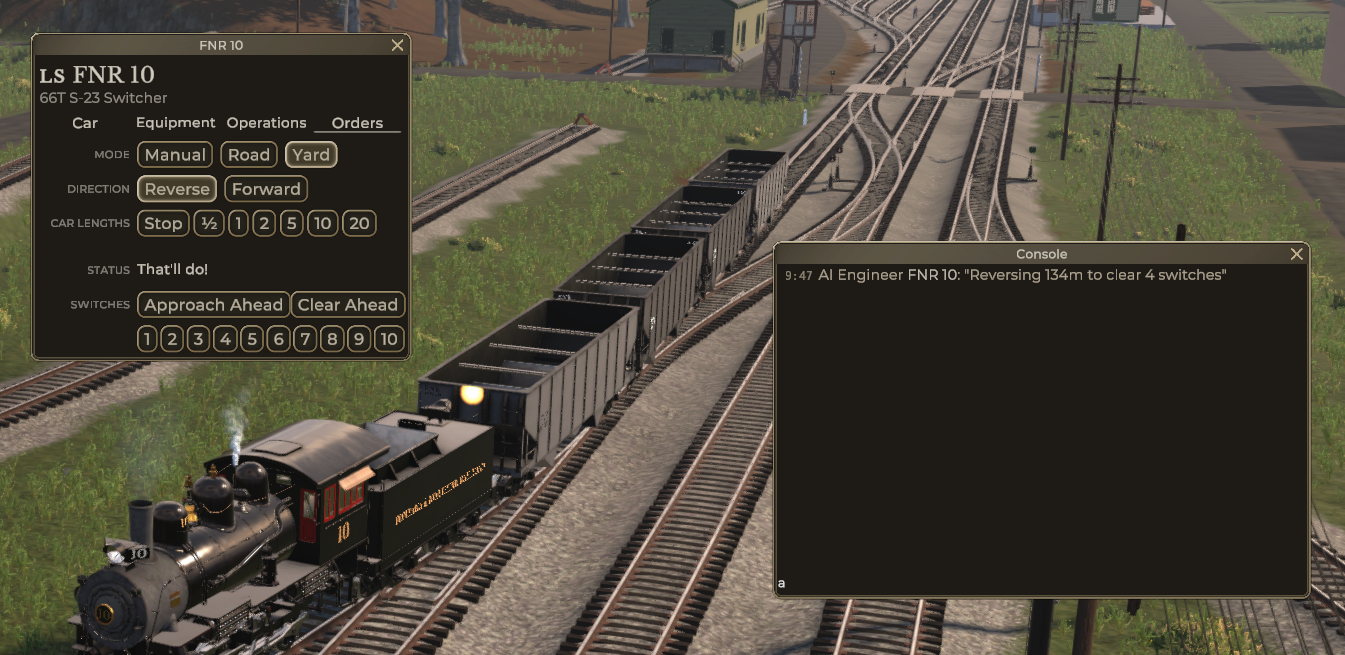
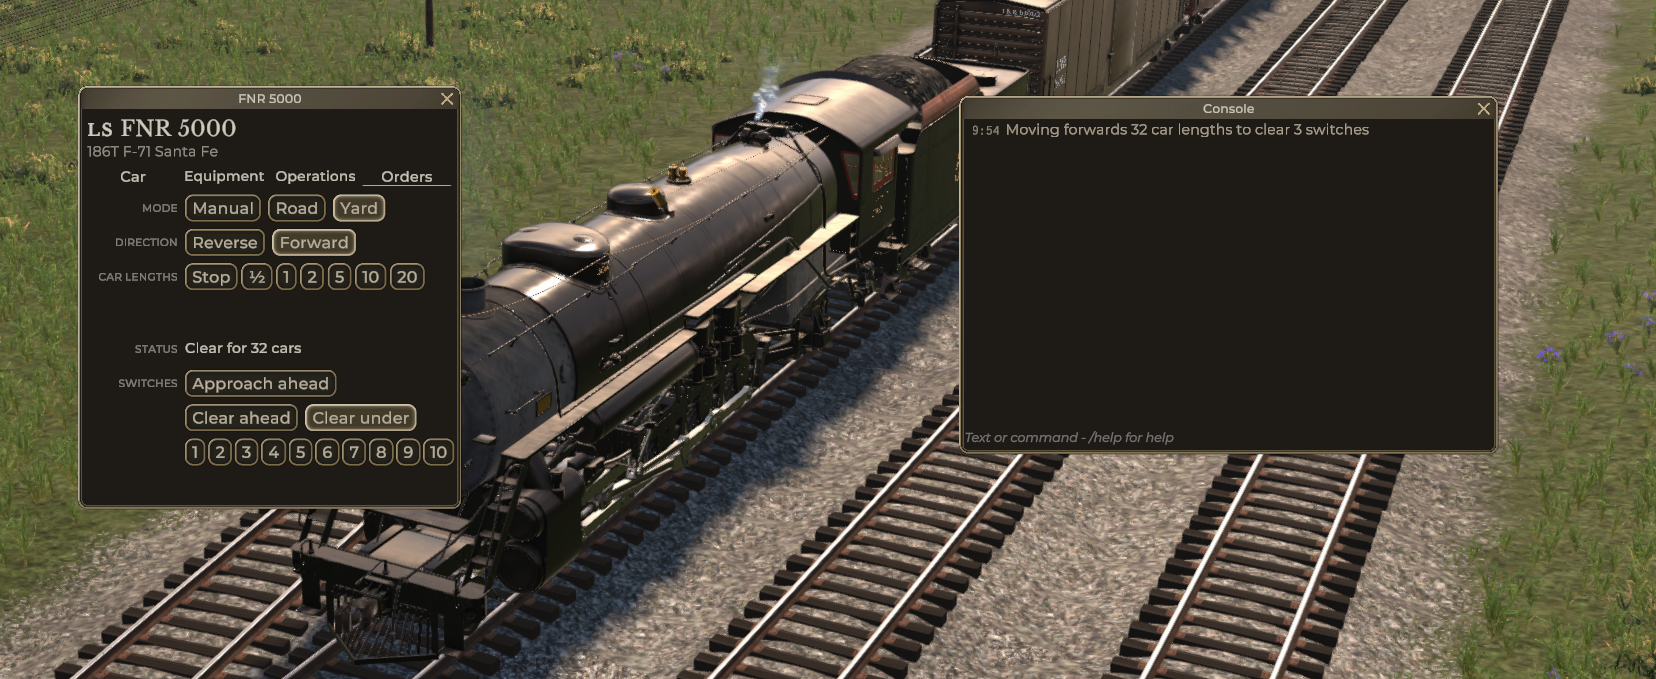
Update UI with for more flexibility

diff --git a/SmartOrders/HarmonyPatches/CarInspectorPatches.cs b/SmartOrders/HarmonyPatches/CarInspectorPatches.cs
@@ -1,6 +1,8 @@
 namespace SmartOrders.HarmonyPatches;
 
+using System;
 using System.Diagnostics.CodeAnalysis;
+using System.Drawing;
 using System.Linq;
 using Game.Messages;
 using HarmonyLib;
@@ -12,79 +14,120 @@ using UI.Builder;
 using UI.CarInspector;
 using UI.Common;
 using UI.EngineControls;
+using UnityEngine;
 
 [PublicAPI]
 [HarmonyPatch]
 [SuppressMessage("ReSharper", "InconsistentNaming")]
-public static class CarInspectorPatches {
+public static class CarInspectorPatches
+{
 
-    [HarmonyPostfix]
-    [HarmonyPatch(typeof(CarInspector), "PopulatePanel")]
-    public static void PopulatePanel(UIPanelBuilder builder, Car? ____car, Window ____window) {
-        if (!SmartOrdersPlugin.Shared.IsEnabled) {
-            return;
-        }
-
-        SmartOrdersUtility.UpdateWindowHeight(____car, ____window);
-    }
+    private static Vector2? originalWindowSize;
 
     [HarmonyPostfix]
     [HarmonyPatch(typeof(CarInspector), "BuildContextualOrders")]
-    public static void BuildContextualOrders(UIPanelBuilder builder, AutoEngineerPersistence persistence, Car ____car) {
-        if (!SmartOrdersPlugin.Shared.IsEnabled) {
+    public static void BuildContextualOrders(UIPanelBuilder builder, AutoEngineerPersistence persistence, Car ____car, Window ____window)
+    {
+        if (!SmartOrdersPlugin.Shared.IsEnabled)
+        {
             return;
         }
-
         var locomotive = (BaseLocomotive)____car;
         var helper = new AutoEngineerOrdersHelper(locomotive, persistence);
         var mode2 = helper.Mode();
 
-        if (mode2 != AutoEngineerMode.Yard) {
+        if (mode2 != AutoEngineerMode.Yard)
+        {
             return;
         }
 
-        builder.AddField("Switches",
+        if (originalWindowSize == null)
+        {
+            originalWindowSize = ____window.GetContentSize();
+        }
+
+        ____window.SetContentSize(new Vector2(originalWindowSize.Value.x, originalWindowSize.Value.y + 30));
+
+        Func<BaseLocomotive, string> getClearSwitchMode = (BaseLocomotive loco) =>
+        {
+            string defaultMode = "CLEAR_AHEAD";
+            var clearSwitchMode = loco.KeyValueObject.Get("CLEAR_SWITCH_MODE");
+            if (clearSwitchMode.IsNull)
+            {
+                return defaultMode;
+            }
+
+            return clearSwitchMode;
+        };
+
+        builder.AddField("Switches", builder.ButtonStrip(delegate (UIPanelBuilder builder)
+        {
+            builder.AddObserver(locomotive.KeyValueObject.Observe("CLEAR_SWITCH_MODE", delegate
+            {
+                builder.Rebuild();
+            }, callInitial: false));
+
+            builder.AddButtonSelectable("Approach ahead", getClearSwitchMode(locomotive) == "APPROACH_AHEAD", delegate
+            {
+                SmartOrdersUtility.DebugLog("updating switch mode to 'approach ahead'");
+                locomotive.KeyValueObject.Set("CLEAR_SWITCH_MODE", "APPROACH_AHEAD");
+            }).Tooltip("Approach Ahead", "Approach, but do not pass, the Nth switch found in front of the train. Select the number of switches to move below after enabling this mode.");
+        }));
+
+        builder.AddField("", builder.ButtonStrip(delegate (UIPanelBuilder builder)
+        {
+            builder.AddObserver(locomotive.KeyValueObject.Observe("CLEAR_SWITCH_MODE", delegate
+            {
+                builder.Rebuild();
+            }, callInitial: false));
+
+            builder.AddButtonSelectable("Clear ahead", getClearSwitchMode(locomotive) == "CLEAR_AHEAD", delegate
+            {
+                SmartOrdersUtility.DebugLog("updating switch mode to 'clear ahead'");
+                locomotive.KeyValueObject.Set("CLEAR_SWITCH_MODE", "CLEAR_AHEAD");
+            }).Tooltip("Approach Ahead", "Clear, the Nth switch found in front of the train. Select the number of switches to move below after enabling this mode.");
+
+            builder.AddButtonSelectable("Clear under", getClearSwitchMode(locomotive) == "CLEAR_UNDER", delegate
+            {
+                SmartOrdersUtility.DebugLog("updating switch mode to 'clear under'");
+                locomotive.KeyValueObject.Set("CLEAR_SWITCH_MODE", "CLEAR_UNDER");
+            }).Tooltip("Clear Under", "Clear, the Nth switch under the train. Select the number of switches to move below after enabling this mode.");
+        }));
+
+        builder.AddField("", builder.ButtonStrip(delegate (UIPanelBuilder builder)
+        {
             builder.ButtonStrip(
-                strip => {
-                    strip.AddButton("Approach Ahead", () => SmartOrdersUtility.Move(helper, 1, false, true, locomotive, persistence))!
-                        .Tooltip("Approach Ahead", "Approach, but do not pass, the first switch found in front of the train. Switches under the train are ignored.");
+                strip =>
+                {
+                    strip.AddButton("1", () => SmartOrdersUtility.Move(helper, 1, locomotive.KeyValueObject.Get("CLEAR_SWITCH_MODE"), locomotive, persistence))!
+                        .Tooltip("1 switch", "Move 1 switch");
 
-                    strip.AddButton("Clear Ahead", () => SmartOrdersUtility.Move(helper, 1, false, false, locomotive, persistence))!
-                        .Tooltip("Clear Ahead", "Clear the first switch found in front of the train. Switches under the train are ignored.");
-                }, 4)!
-        )!.Tooltip("AI move to switch control",
-            "Use Approach Ahead and Clear Ahead to approach or clear the first switch IN FRONT of the train. Switches under the train are ignored.\n" +
-            "Use the 1, 2, 3 etc buttons to move the train past switches in the direction travel starting from the BACK of the train. " +
-            "This includes switches that are currently UNDER the train as well as switches in front of the train");
-
-        builder.AddField("",
-            builder.ButtonStrip(
-                strip => {
-                    strip.AddButton("1", () => SmartOrdersUtility.Move(helper, 1, true, false, locomotive, persistence))!
-                        .Tooltip("Clear 1 switch", "Clear the next switch from the back of the train in the direction of travel");
-
-                    for (var i = 2; i <= 10; i++) {
+                    for (var i = 2; i <= 10; i++)
+                    {
                         var numSwitches = i;
-                        strip.AddButton($"{numSwitches}", () => SmartOrdersUtility.Move(helper, numSwitches, true, false, locomotive, persistence))!
-                            .Tooltip($"Clear {numSwitches} switches", $"Clear the next {numSwitches} switches from the back of the train in the direction of travel");
+                        strip.AddButton($"{numSwitches}", () => SmartOrdersUtility.Move(helper, numSwitches, locomotive.KeyValueObject.Get("CLEAR_SWITCH_MODE"), locomotive, persistence))!
+                            .Tooltip($"{numSwitches} switches", $"Move {numSwitches} switches");
                     }
-                }, 4)!
-        );
+                }, 4);
+        }));
 
         builder.AddField("",
-            builder.ButtonStrip(strip => {
-                var cars = locomotive.EnumerateCoupled()!.ToList()!;
+           builder.ButtonStrip(strip =>
+           {
+               var cars = locomotive.EnumerateCoupled()!.ToList()!;
 
-                if (cars.Any(c => c.air!.handbrakeApplied)) {
-                    strip.AddButton($"Release {TextSprites.HandbrakeWheel}", () => SmartOrdersUtility.ReleaseAllHandbrakes(cars))!
-                        .Tooltip("Release handbrakes", $"Iterates over cars in this consist and releases {TextSprites.HandbrakeWheel}.");
-                }
+               if (cars.Any(c => c.air!.handbrakeApplied))
+               {
+                   strip.AddButton($"Release {TextSprites.HandbrakeWheel}", () => SmartOrdersUtility.ReleaseAllHandbrakes(cars))!
+                       .Tooltip("Release handbrakes", $"Iterates over cars in this consist and releases {TextSprites.HandbrakeWheel}.");
+               }
 
-                if (cars.Any(c => c.EndAirSystemIssue())) {
-                    strip.AddButton("Connect Air", () => SmartOrdersUtility.ConnectAir(cars))!
-                        .Tooltip("Connect Consist Air", "Iterates over each car in this consist and connects gladhands and opens anglecocks.");
-                }
-            })!
+               if (cars.Any(c => c.EndAirSystemIssue()))
+               {
+                   strip.AddButton("Connect Air", () => SmartOrdersUtility.ConnectAir(cars))!
+                       .Tooltip("Connect Consist Air", "Iterates over each car in this consist and connects gladhands and opens anglecocks.");
+               }
+           })!
         );
     }
 

diff --git a/SmartOrders/SmartOrdersUtility.cs b/SmartOrders/SmartOrdersUtility.cs
@@ -19,29 +19,7 @@ using Game;
 using Network.Messages;
 
 public static class SmartOrdersUtility
-{
-
-    public static void UpdateWindowHeight(Car? car, Window window)
-    {
-        if (car == null || !car.IsLocomotive)
-        {
-            return;
-        }
-
-        var persistence = new AutoEngineerPersistence(car.KeyValueObject);
-        var helper = new AutoEngineerOrdersHelper(car, persistence);
-        var mode = helper.Mode();
-
-        var size = window.GetContentSize();
-        if (mode != AutoEngineerMode.Yard)
-        {
-            return;
-        }
-
-        window.SetContentSize(new Vector2(size.x - 2, 322 + 70));
-    }
-
-    public static void ConnectAir(List<Car> consist)
+{    public static void ConnectAir(List<Car> consist)
     {
         foreach (var car in consist)
         {
@@ -67,12 +45,37 @@ public static class SmartOrdersUtility
         consist.Do(c => c.SetHandbrake(false));
     }
 
-    public static void Move(AutoEngineerOrdersHelper helper, int switchesToFind, bool clearSwitchesUnderTrain, bool stopBeforeSwitch, BaseLocomotive locomotive, AutoEngineerPersistence persistence)
+    public static void Move(AutoEngineerOrdersHelper helper, int switchesToFind, KeyValue.Runtime.Value mode, BaseLocomotive locomotive, AutoEngineerPersistence persistence)
     {
+        bool clearSwitchesUnderTrain = false;
+        bool stopBeforeSwitch = false;
+
+
+
+        if (mode.IsNull)
+        {
+            mode = "CLEAR_AHEAD";
+        }
+
+        if (mode == "CLEAR_UNDER")
+        {
+            clearSwitchesUnderTrain = true;
+        }
+        else if (mode == "APPROACH_AHEAD")
+        {
+            stopBeforeSwitch = true;
+        }
+
+        DebugLog($"Handling move order mode: {mode}, switchesToFind: {switchesToFind}, clearSwitchesUnderTrain: {clearSwitchesUnderTrain}, stopBeforeSwitch: {stopBeforeSwitch}");
+
         var distanceInMeters = GetDistanceForSwitchOrder(switchesToFind, clearSwitchesUnderTrain, stopBeforeSwitch, locomotive, persistence);
         if (distanceInMeters != null)
         {
             helper.SetOrdersValue(AutoEngineerMode.Yard, null, null, distanceInMeters!);
+        }
+        else
+        {
+            DebugLog("ERROR: distanceInMeters is null");
         }
     }
 
@@ -85,7 +88,7 @@ public static class SmartOrdersUtility
 
         const float FEET_PER_METER = 3.28084f;
         const float CAR_LENGTH_IN_METERS = 12.2f;
-        const float MAX_DISTANCE_IN_METERS = 4000f / FEET_PER_METER;
+        const float MAX_DISTANCE_IN_METERS = 10000f / FEET_PER_METER;
 
         if (stopBeforeSwitch)
         {
@@ -180,7 +183,6 @@ public static class SmartOrdersUtility
                 DebugLog("Next node is null");
                 break;
             }
-
 
             if (graph.IsSwitch(node))
             {
@@ -328,7 +330,7 @@ public static class SmartOrdersUtility
         return distanceInMeters;
     }
 
-    private static void DebugLog(string message)
+    public static void DebugLog(string message)
     {
         if (!SmartOrdersPlugin.Settings.EnableDebug)
         {

diff --git a/README.md b/README.md
@@ -4,13 +4,16 @@ Make shunting easier by telling the AI where to move in relation to nearby switc
 
 This mod adds the following buttons to the Yard AI panel:
 
-* **Approach Ahead**: AI will approach, but not pass the switch immediately ahead of the train in the direction of travel
+* **Approach Ahead** / **Clear Ahead** / **Clear Under**: Use this to choose where to move relative to switches:
+  * **Approach Ahead**: Go to the nth switch in front of the train, but do not pass the switch
+  * **Clear Ahead**: Go to the nth switch in front of the train, and pass the switch so the whole train is on the other side.
+  * **Clear Under**: Look for switches _under_ the train and move so that the full length of the train is passed the nth switch.
 * **Clear Ahead**: AI will pass the switch immediately ahead of the train, so the full length of the train is on the other side of the switch
-* **1, 2, 3 etc**: Starting from the back of the train, the AI will look for switches under the train and move so it clears 1, 2 or 3, etc switches as desired. If there are not enough switches under the train, it will continue looking for switches ahead of the train
+* **1, 2, 3 etc**: Use these buttons to choose how many switches to move after choosing the switch mode above.
 
 When approaching or clearing a switch, if the train stops on the _exit side_ of the switch, the AI will leave enough room for the other track to be used.
 
-The AI will look for switches as far as 4000 feet away, but is less precise the further away the target switch is. If the track ends before it finds all the switches you asked for it will just move to the track end, using the existing Yard AI logic to do so safely. If it can't can't find all the switches you asked for in the 4000 feet in front of the train, it will just move 4000 feet and stop.
+The AI will look for switches as far as 10,000 feet away, but is less precise the further away the target switch is. If the track ends before it finds all the switches you asked for it will just move to the track end, using the existing Yard AI logic to do so safely. If it can't can't find all the switches you asked for in the 4000 feet in front of the train, it will just move 10,000 feet and stop.
 
 Known incompatability: Unfortunately this mod is **not** compatible with wexp's [RR-YardAiExtended](https://github.com/wexp/RR-YardAiExtended) mod, however if you use SmartOrders and just ask the AI to move the train "10 switches" it has the same effect as "move the train really far".
 
